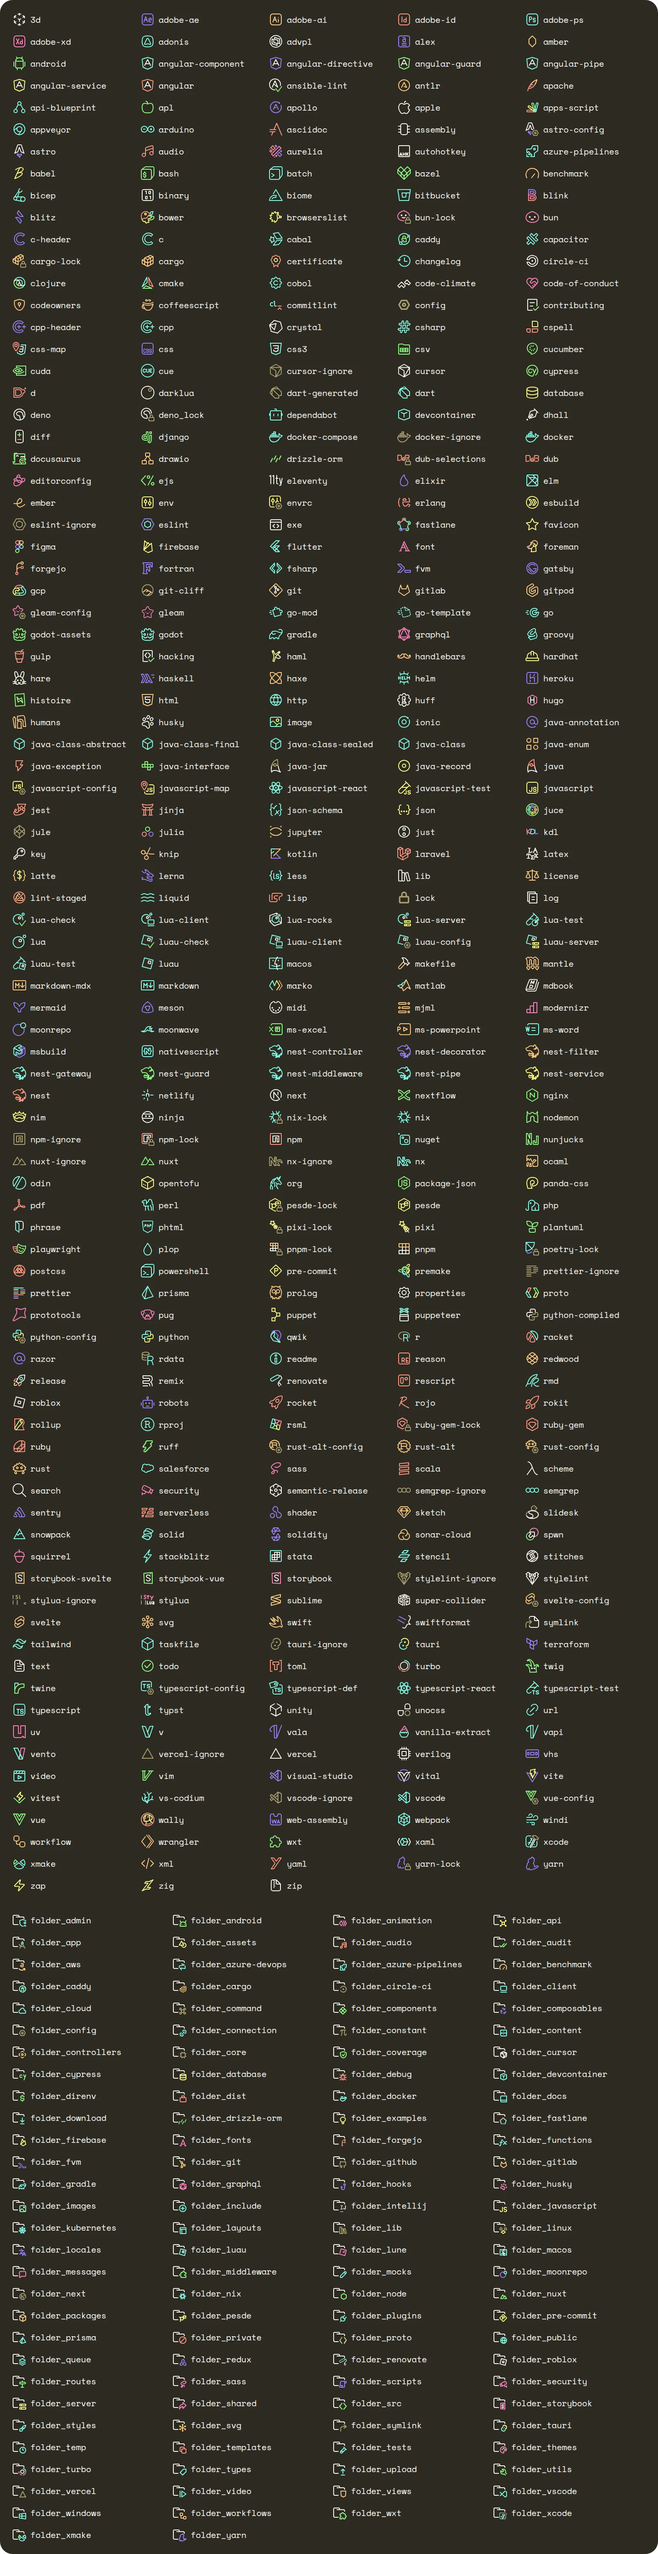
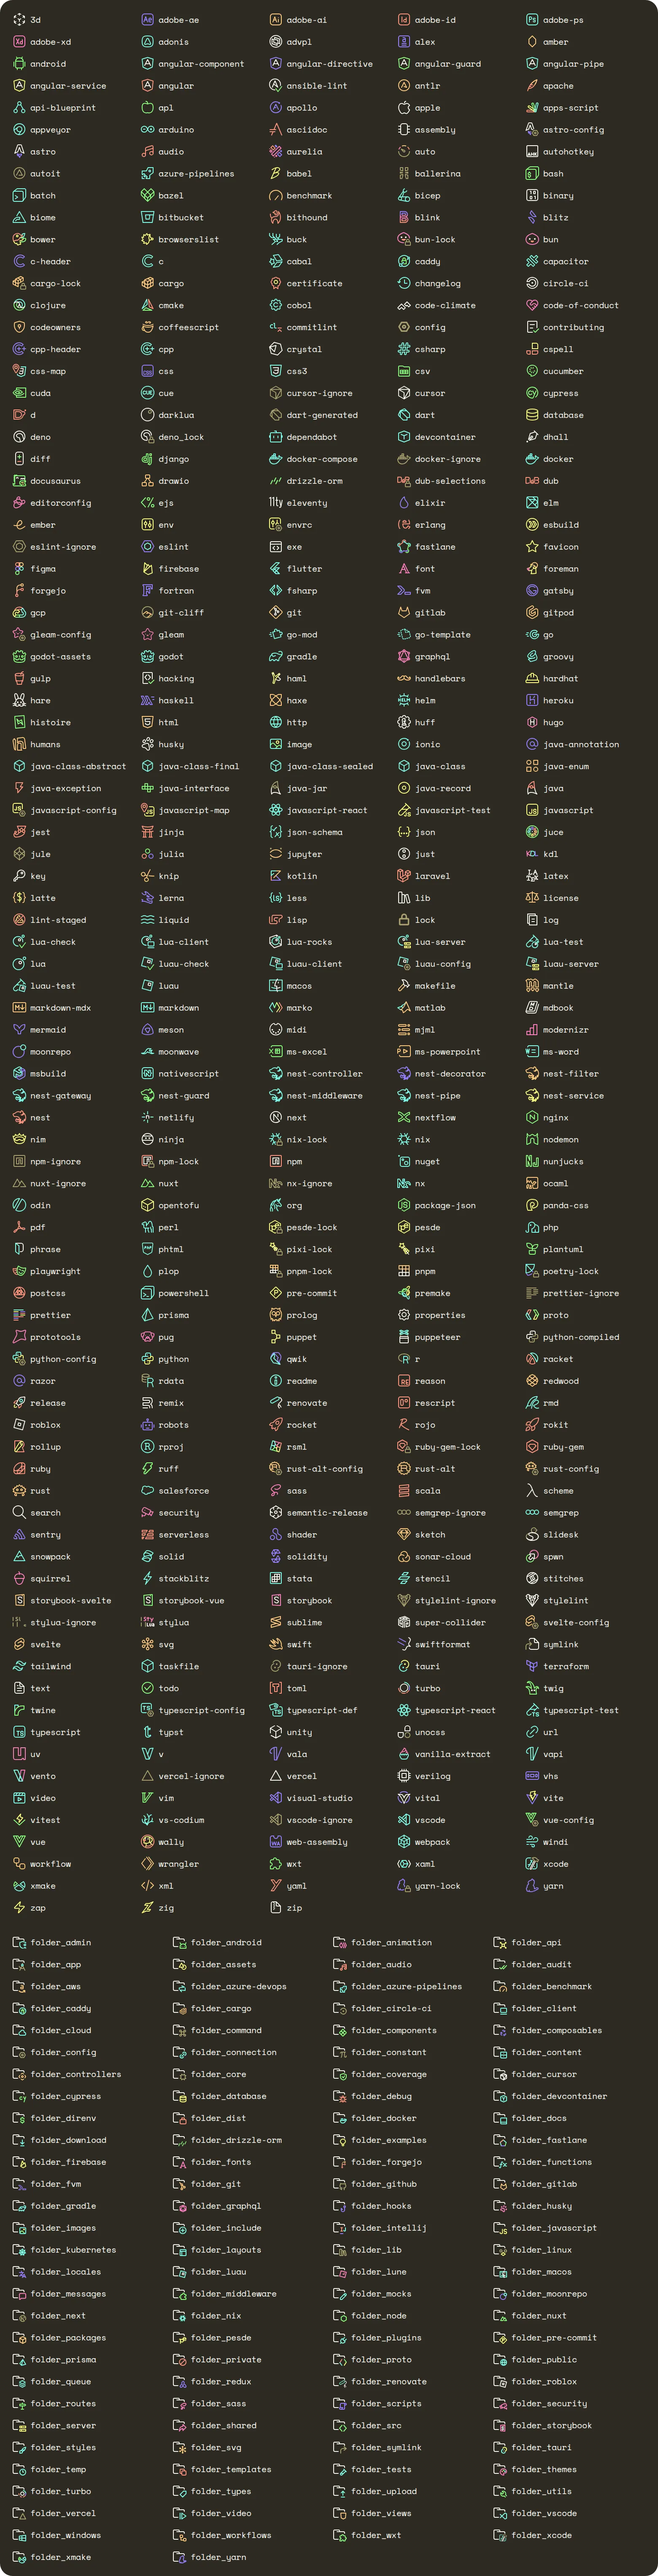
+5 iconos 2.

diff --git a/src/defaults/fileIcons.ts b/src/defaults/fileIcons.ts
@@ -187,9 +187,27 @@ const fileIcons: FileIcons = {
       'aurelia.json',
     ],
   },
+  'auto': {
+    fileNames: [
+      '.autorc',
+      'auto.config.js',
+      'auto.config.ts',
+      'auto-config.json',
+      'auto-config.yaml',
+      'auto-config.yml',
+      'auto-config.ts',
+      'auto-config.js',
+    ],
+  },
   'autohotkey': {
     fileExtensions: ['ahk'],
     languageIds: ['ahk'],
+  },
+  'autoit': {
+    fileExtensions: [
+      'au3',
+      'a3x',
+    ],
   },
   'azure-pipelines': {
     fileNames: [
@@ -223,6 +241,12 @@ const fileIcons: FileIcons = {
       '.babel-plugin-macrosrc.yml',
       '.babel-plugin-macrosrc.js',
       'babel-plugin-macros.config.js',
+    ],
+  },
+  'ballerina': {
+    fileExtensions: [
+      'bal',
+      'balx',
     ],
   },
   'bash': {
@@ -302,6 +326,11 @@ const fileIcons: FileIcons = {
       'bitbucket-pipelines.yml',
     ],
   },
+  'bithound': {
+    fileNames: [
+      '.bithoundrc',
+    ],
+  },
   'blink': {
     fileExtensions: ['blink'],
   },
@@ -322,6 +351,11 @@ const fileIcons: FileIcons = {
     fileNames: [
       'browserslist',
       '.browserslistrc',
+    ],
+  },
+  'buck': {
+    fileNames: [
+      '.buckconfig',
     ],
   },
   'bun-lock': {
